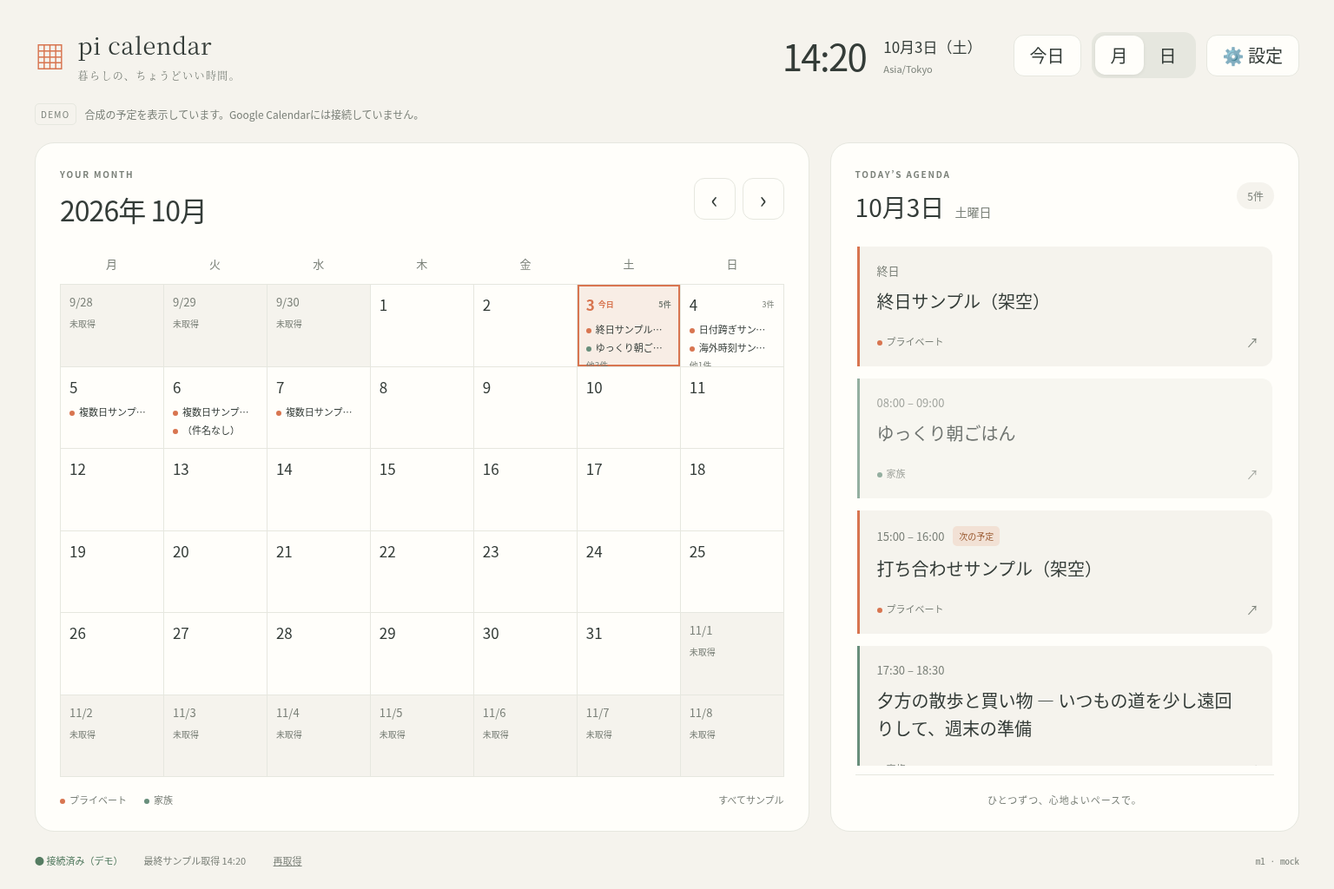
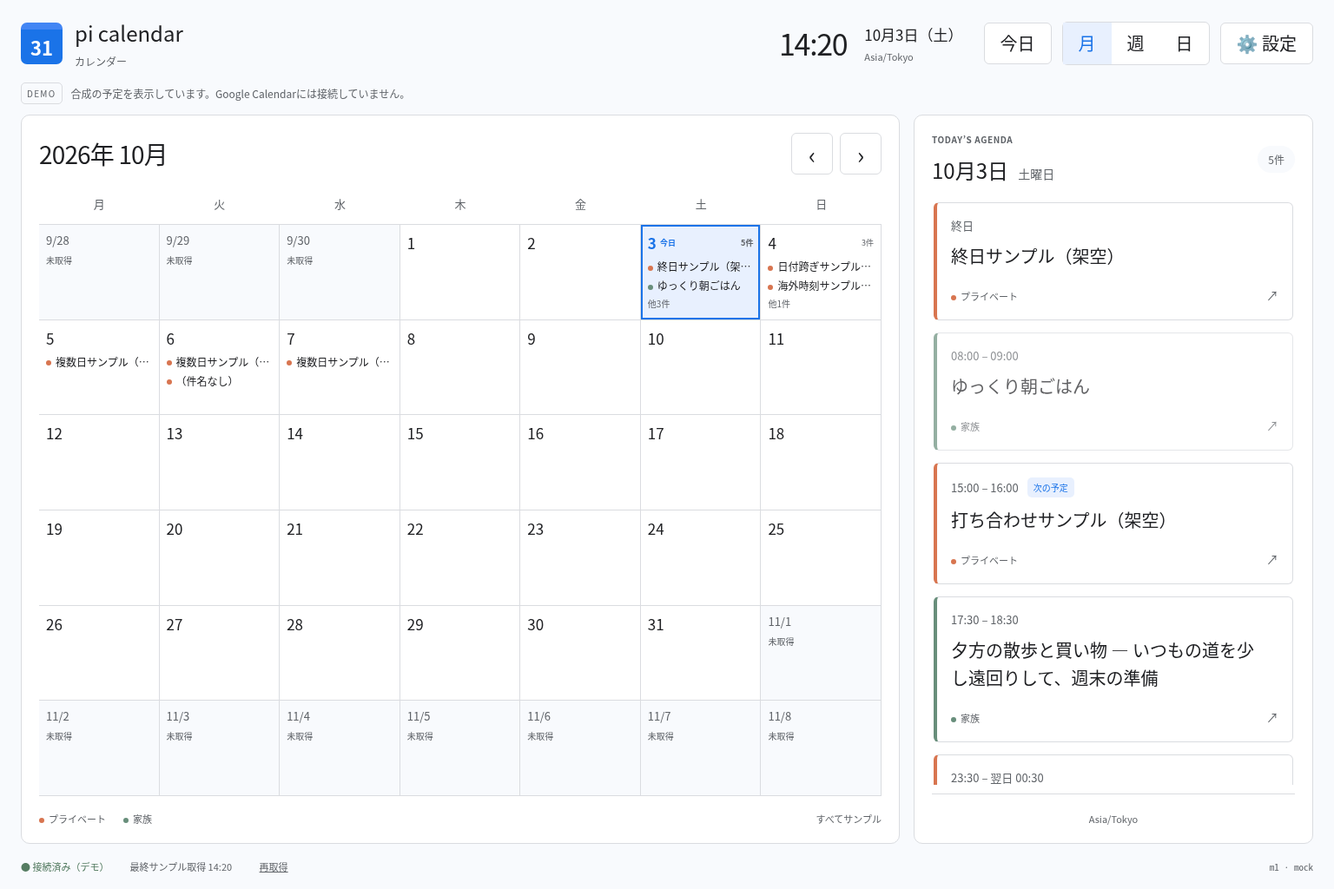
feat: add Google Calendar style week timeline

diff --git a/src/app/globals.css b/src/app/globals.css
@@ -1,3 +1,85 @@
 *{box-sizing:border-box}html,body{margin:0;height:100%;font-family:"Noto Sans JP","Hiragino Kaku Gothic ProN",Meiryo,sans-serif}button,select{font:inherit}button{cursor:pointer;min-height:48px;min-width:48px;touch-action:manipulation}button:focus-visible,select:focus-visible{outline:3px solid #d87550;outline-offset:3px}button{color:inherit}body{background:#f5f3ed;color:#343c38}.calendar-app{--bg:#f5f3ed;--panel:#fffefa;--ink:#343c38;--muted:#7b8179;--line:#e6e7df;--accent:#d87550;--soft:#f8ede5;min-height:100dvh;height:100dvh;background:var(--bg);color:var(--ink);padding:32px 40px 0;display:flex;flex-direction:column;font-size:20px}.calendar-app.dark{--bg:#212824;--panel:#2b342e;--ink:#f2f1e8;--muted:#b8beb4;--line:#465047;--soft:#49392e}.calendar-app.large{font-size:24px}.topbar{display:flex;align-items:center;gap:36px;padding-bottom:24px}.brand{display:flex;align-items:center;gap:14px;font-family:Georgia,serif;font-size:27px;letter-spacing:.02em}.brand-symbol{font-size:35px;color:var(--accent)}.brand small{font-family:inherit;display:block;font-size:12px;color:var(--muted);margin-top:7px;letter-spacing:.12em}.clock{display:flex;align-items:center;gap:20px;margin-left:auto}.clock strong{font-size:42px;font-weight:500;font-variant-numeric:tabular-nums;letter-spacing:-.04em}.clock span{font-size:17px}.clock small{display:block;font-size:11px;color:var(--muted);margin-top:5px}.topbar nav{display:flex;align-items:center;gap:12px}.topbar button,.month-actions button,.day-navigation button,.dialog-heading button,.empty-state button{background:var(--panel);border:1px solid var(--line);border-radius:12px;padding:8px 18px}.segmented{display:flex;background:var(--line);padding:4px;border-radius:14px}.segmented button{border:0;background:transparent;min-height:44px}.segmented button[aria-pressed=true]{background:var(--panel);box-shadow:0 1px 4px #0001}.demo-note{font-size:12px;color:var(--muted);margin-bottom:20px;display:flex;align-items:center;gap:10px}.demo-badge{font-size:10px;letter-spacing:.13em;border:1px solid var(--line);border-radius:5px;padding:4px 6px}.workspace{display:grid;grid-template-columns:minmax(0,1.65fr) minmax(310px,1fr);gap:24px;min-height:0;flex:1}.month-panel,.agenda-panel{background:var(--panel);border:1px solid var(--line);border-radius:22px;padding:28px;min-height:0;display:flex;flex-direction:column}.section-heading{display:flex;align-items:center;justify-content:space-between;gap:14px;margin-bottom:24px}.eyebrow{font-size:10px;letter-spacing:.18em;font-weight:600;color:var(--muted);margin:0 0 10px}h1,h2,h3,p{margin-top:0}h1{font-size:32px;font-weight:500;letter-spacing:-.03em;margin:0}h2{font-size:28px;font-weight:500;margin:0}h2 span{font-size:14px;color:var(--muted);margin-left:6px}.month-actions{display:flex;gap:8px}.month-actions button{padding:0;font-size:27px}.weekdays{display:grid;grid-template-columns:repeat(7,1fr);text-align:center;font-size:13px;color:var(--muted);padding:6px 0 14px}.month-grid{display:grid;grid-template-columns:repeat(7,minmax(0,1fr));grid-template-rows:repeat(6,minmax(48px,1fr));flex:1;min-height:0;border-top:1px solid var(--line);border-left:1px solid var(--line)}.day-cell{background:transparent;border:0;border-bottom:1px solid var(--line);border-right:1px solid var(--line);text-align:left;padding:10px;min-width:0;overflow:hidden;display:flex;flex-direction:column;gap:8px;position:relative}.day-cell.selected{background:var(--soft);box-shadow:inset 0 0 0 2px var(--accent)}.day-number{display:flex;align-items:center;gap:4px;font-size:17px}.today .day-number{color:var(--accent);font-weight:700}.day-number small{font-size:9px}.outside{color:var(--muted);background:var(--bg)}.outside .day-number{font-size:13px}.unfetched{font-size:10px;color:var(--muted)}.cell-events{display:flex;flex-direction:column;gap:5px;min-width:0;font-size:11px}.cell-event{white-space:nowrap;overflow:hidden;text-overflow:ellipsis}.cell-event i,.calendar-legend i,.event-calendar i{display:inline-block;width:6px;height:6px;border-radius:50%;margin-right:5px;vertical-align:middle}.cell-events small{color:var(--muted);font-size:10px}.calendar-legend{display:flex;gap:20px;padding-top:18px;font-size:11px;color:var(--muted)}.calendar-legend span:last-child{margin-left:auto}.count{background:var(--bg);border-radius:20px;padding:7px 12px;font-size:12px;color:var(--muted)}.agenda-list{overflow-y:auto;min-height:0;flex:1;padding:2px}.event-card{display:block;width:100%;text-align:left;background:var(--bg);border:0;border-left:3px solid var(--accent);border-radius:0 12px 12px 0;padding:18px 20px;margin-bottom:14px;position:relative}.event-card.ended{opacity:.7}.event-meta{display:flex;align-items:center;gap:10px;font-size:13px;color:var(--muted);margin-bottom:10px;flex-wrap:wrap}.event-meta em{font-size:10px;white-space:nowrap;font-style:normal;background:#dcebdd;color:#365f3b;border-radius:5px;padding:4px 7px}.event-meta .next-tag{background:#f2e1d5;color:#99582f}.event-card h3{font-size:1em;line-height:1.6;font-weight:500;margin:0 12px 12px 0;overflow-wrap:anywhere}.event-calendar{font-size:11px;color:var(--muted)}.event-arrow{position:absolute;bottom:18px;right:16px;color:var(--muted);font-size:14px}.agenda-footnote{color:var(--muted);font-size:11px;text-align:center;border-top:1px solid var(--line);padding-top:20px;margin-top:10px;letter-spacing:.09em}.statusbar{display:flex;align-items:center;gap:24px;min-height:66px;font-size:11px;color:var(--muted)}.status-good{color:#557c62}.status-warning{color:var(--accent)}.version{margin-left:auto;font-family:monospace}.reconnect{background:transparent;border:0;padding:4px;font-size:11px;text-decoration:underline}.empty-state{text-align:center;padding:50px 10px;color:var(--muted)}.empty-state>span{display:block;font-size:50px;color:var(--accent);margin-bottom:22px}.empty-state h3{font-size:20px;font-weight:400;color:var(--ink)}.empty-state p{font-size:14px;line-height:1.8}.day-view{display:flex}.day-view .agenda-panel{width:100%;max-width:1000px;margin:0 auto}.day-navigation{display:flex;justify-content:space-between;gap:12px;margin-bottom:20px}dialog{background:var(--panel);color:var(--ink);border:1px solid var(--line);border-radius:22px;padding:28px;max-width:540px;width:calc(100% - 32px);max-height:90dvh;overflow:auto;box-shadow:0 20px 80px #0003}dialog::backdrop{background:#1d302966;backdrop-filter:blur(4px)}.dialog-heading{display:flex;align-items:center;justify-content:space-between;gap:16px;margin-bottom:24px}.dialog-heading button{padding:0}dialog label{display:flex;justify-content:space-between;align-items:center;gap:18px;font-size:16px;margin:18px 0}dialog select{background:var(--bg);color:var(--ink);border:1px solid var(--line);border-radius:8px;padding:10px;min-height:48px;max-width:60%;font-size:15px}.dialog-note{font-size:12px;color:var(--muted);line-height:1.8;margin-top:28px}.description{white-space:pre-wrap;overflow-wrap:anywhere;font-size:17px;line-height:1.9;border-top:1px solid var(--line);padding-top:20px;margin-top:24px}.setup-error{max-width:700px;margin:10vh auto;padding:30px}.large .cell-events{font-size:13px}.large .day-number{font-size:20px}.large .event-meta{font-size:16px}.large .event-calendar{font-size:13px}@media(min-width:1600px){.calendar-app{padding:48px 60px 0}.workspace{gap:32px}.month-panel,.agenda-panel{padding:36px}.day-cell{padding:16px}.cell-events{font-size:14px;gap:8px}.day-number{font-size:22px}.event-card{padding:24px;margin-bottom:18px}.event-meta{font-size:17px}.event-calendar{font-size:14px}.calendar-legend{font-size:14px}.brand{font-size:32px}.clock strong{font-size:48px}}@media(max-width:1100px){.calendar-app{padding:20px 24px 0;font-size:18px}.topbar{gap:20px;padding-bottom:14px}.brand{font-size:23px}.brand small{font-size:10px}.clock{gap:10px}.clock strong{font-size:36px}.clock span{font-size:14px}.topbar nav{gap:8px}.topbar button{padding:8px 12px}.settings-label{display:none}.workspace{gap:16px;grid-template-columns:minmax(0,1.6fr) minmax(300px,1fr)}.month-panel,.agenda-panel{padding:20px}.section-heading{margin-bottom:14px}h1{font-size:26px}h2{font-size:23px}.day-cell{padding:7px;gap:4px}.cell-events{font-size:10px}.event-card{padding:14px;margin-bottom:10px}.demo-note{margin-bottom:12px}.calendar-legend{gap:10px;font-size:10px}.statusbar{gap:12px;min-height:52px;font-size:10px}}@media(max-width:900px){.calendar-app{height:auto;min-height:100dvh;padding:18px 16px 0}.topbar{flex-wrap:wrap}.clock{margin-left:auto}.topbar nav{width:100%;justify-content:flex-end}.workspace{display:flex;flex-direction:column}.month-panel{height:600px;flex:none}.agenda-panel{min-height:420px;max-height:650px}.statusbar{flex-wrap:wrap;padding:14px 0;gap:10px}.demo-note{line-height:1.6}.version{margin-left:0}.calendar-legend span:last-child{display:none}}@media(prefers-reduced-motion:reduce){*{scroll-behavior:auto}}
 
 .cell-total{margin-left:auto;white-space:nowrap;color:var(--muted)}
+
+/* Calendar workspace: neutral surfaces, blue selection and compact grid lines. */
+body{background:#f8fafd;color:#202124}
+.calendar-app{--bg:#f8fafd;--panel:#fff;--ink:#202124;--muted:#5f6368;--line:#dadce0;--accent:#1a73e8;--soft:#e8f0fe;padding:20px 24px 0;font-size:20px}
+.calendar-app.dark{--bg:#17191c;--panel:#202124;--ink:#e8eaed;--muted:#bdc1c6;--line:#45474b;--accent:#8ab4f8;--soft:#28364f}
+.topbar{gap:24px;padding-bottom:16px}
+.brand{font-family:inherit;letter-spacing:0;font-size:24px}
+.brand-symbol{background:#1a73e8;color:white;font-size:22px;font-weight:700;border-radius:7px;border-top:8px solid #4285f4;display:grid;place-items:center;width:48px;height:48px}
+.brand small{letter-spacing:0;font-family:inherit}
+.clock strong{font-size:34px}
+.topbar button,.month-actions button,.day-navigation button{border-radius:6px}
+.segmented{border:1px solid var(--line);background:var(--panel);border-radius:6px;padding:0}
+.segmented button{min-height:48px;border-radius:0}
+.segmented button[aria-pressed=true]{background:var(--soft);color:var(--accent);box-shadow:none}
+.demo-note{margin-bottom:12px}
+.workspace{gap:16px;grid-template-columns:minmax(0,2.2fr) minmax(300px,1fr)}
+.month-panel,.agenda-panel{border-radius:10px;padding:20px}
+.section-heading{margin-bottom:18px}
+.eyebrow{letter-spacing:.06em}
+.month-panel .eyebrow{display:none}
+h1{font-size:28px}
+h2{font-size:24px}
+.month-grid{border-left:0}
+.day-cell{padding:8px;gap:6px}
+.day-cell.selected{box-shadow:inset 0 0 0 2px var(--accent)}
+.today .day-number{color:var(--accent)}
+.cell-events{font-size:12px}
+.event-card{background:var(--panel);border:1px solid var(--line);border-left:4px solid var(--accent);border-radius:6px;padding:16px}
+.event-meta .next-tag{background:var(--soft);color:var(--accent)}
+.agenda-footnote{letter-spacing:0}
+.statusbar{min-height:52px}
+.week-view{display:flex}
+.week-panel{width:100%;min-width:0;min-height:0;background:var(--panel);border:1px solid var(--line);border-radius:10px;display:flex;flex-direction:column;overflow:hidden}
+.week-panel>.section-heading{padding:16px 20px;margin:0}
+.week-zone{font-size:12px;color:var(--muted);margin:6px 0 0}
+.week-scroll{overflow:auto;min-height:0;flex:1;touch-action:pan-x pan-y;overscroll-behavior:contain}
+.week-canvas{min-width:850px}
+.week-header,.week-time-grid{display:grid;grid-template-columns:64px repeat(7,minmax(0,1fr))}
+.week-header{position:sticky;top:0;z-index:3;background:var(--panel);border-bottom:1px solid var(--line);align-items:stretch}
+.zone-label{align-self:end;padding:12px 4px;color:var(--muted);font-size:12px}
+.week-day-header{border-left:1px solid var(--line);min-width:0;padding:4px}
+.week-day-header>button{background:transparent;border:0;border-radius:6px;width:100%;padding:4px;color:var(--muted);min-height:64px}
+.week-day-header>button span{display:block;font-size:12px}
+.week-day-header>button strong{display:block;font-size:22px;font-weight:500}
+.week-day-header>button[aria-pressed=true]{background:var(--soft)}
+.week-day-header>button.is-today{color:var(--accent)}
+.all-day-events{display:flex;flex-direction:column;gap:4px;max-height:180px;overflow:auto}
+.all-day-event{border:0;border-radius:4px;min-width:0;width:100%;color:white;text-align:left;font-size:13px;padding:6px;overflow-wrap:anywhere;min-height:48px}
+.week-time-grid{height:1728px}
+.time-labels{position:relative;font-size:11px;color:var(--muted);background:var(--panel)}
+.time-labels span{position:absolute;right:6px}
+.time-column{position:relative;border-left:1px solid var(--line);background:repeating-linear-gradient(to bottom,transparent 0,transparent 71px,var(--line) 71px,var(--line) 72px)}
+.week-event{position:absolute;z-index:1;border:1px solid var(--panel);border-radius:5px;color:white;text-align:left;padding:5px;overflow:hidden;min-width:0;min-height:48px;font-size:13px;line-height:1.4}
+.week-event strong{display:block;font-weight:500;overflow-wrap:anywhere}
+.week-event span{font-size:11px}
+.now-line{position:absolute;left:0;right:0;border-top:2px solid #ea4335;z-index:2;pointer-events:none}
+.now-line:before{content:'';position:absolute;left:-5px;top:-5px;width:8px;height:8px;border-radius:50%;background:#ea4335}
+.large .week-event,.large .all-day-event{font-size:16px}
+.large .week-event span{font-size:13px}
+@media(min-width:1600px){.calendar-app{padding:24px 32px 0}
+.month-panel,.agenda-panel{padding:24px}
+.cell-events{font-size:15px}
+.week-event,.all-day-event{font-size:16px}
+.week-event span{font-size:13px}
+}
+@media(max-width:1100px){.topbar{gap:14px}
+.brand{font-size:20px}
+.clock span{font-size:12px}
+.clock strong{font-size:28px}
+.topbar nav{gap:6px}
+.topbar button{padding:6px 10px}
+.week-panel h1{font-size:22px}
+}
+@media(max-width:900px){.calendar-app{padding:14px 12px 0}
+.week-panel{height:700px;flex:none}
+.week-panel>.section-heading{padding:12px}
+.week-panel h1{font-size:18px}
+.week-canvas{min-width:850px}
+.week-scroll{flex:1}
+.month-panel{height:600px}
+.brand small{display:none}
+}

diff --git a/src/components/Calendar.tsx b/src/components/Calendar.tsx
@@ -1,8 +1,9 @@
 "use client";
 import { useEffect, useRef, useState } from 'react';
 import { DateTime } from 'luxon';
-import { dateInZone, eventPhase, eventsForDay, monthDays, type CalendarEvent, type Snapshot, type SyncState } from '../domain/calendar';
-type Preferences = { theme:'light'|'dark'; scale:'normal'|'large'; weekStart:0|1; startupView:'month'|'day' };
+import WeekCalendar from './WeekCalendar';
+import { dateInZone, eventPhase, eventsForDay, monthDays, weekDays, type CalendarEvent, type Snapshot, type SyncState } from '../domain/calendar';
+type Preferences = { theme:'light'|'dark'; scale:'normal'|'large'; weekStart:0|1; startupView:'month'|'week'|'day' };
 const defaults: Preferences = {theme:'light',scale:'normal',weekStart:1,startupView:'month'};
 const states: Record<SyncState,string> = {fresh:'接続済み',syncing:'同期中',stale:'取得情報が古くなっています',offline:'オフライン · 保存済みのサンプルを表示',auth_required:'再認証が必要 · 保存済みのサンプルを表示',partial_error:'一部のカレンダーを取得できません',not_configured:'未取得 · データを準備してください'};
 const fmt = (day:string, pattern:string) => DateTime.fromISO(day).setLocale('ja').toFormat(pattern);
@@ -12,8 +13,10 @@ export default function Calendar({initialNow,fixedClock,timezone}:{initialNow:st
  const today = dateInZone(clock,timezone);
  const [selected,setSelected] = useState(today);
  const [month,setMonth] = useState(today.slice(0,7));
- const [view,setView] = useState<'month'|'day'>('month');
+ const [view,setView] = useState<'month'|'week'|'day'>('month');
  const [prefs,setPrefs] = useState<Preferences>(defaults);
+ const week=weekDays(selected,prefs.weekStart);
+ const requestMonths=view==='week' ? [...new Set(week.map(d=>d.slice(0,7)))].join(',') : month;
  const [snapshot,setSnapshot] = useState<Snapshot|null>(null);
  const [snapshotMonth,setSnapshotMonth] = useState('');
  const [networkError,setNetworkError] = useState(false);
@@ -27,7 +30,7 @@ export default function Calendar({initialNow,fixedClock,timezone}:{initialNow:st
  const detailDialog = useRef<HTMLDialogElement>(null);
  useEffect(()=>{
   const frame=requestAnimationFrame(()=>{try { const p=JSON.parse(localStorage.getItem('pi-calendar-preferences') ?? 'null');
-   if(p && ['light','dark'].includes(p.theme) && ['normal','large'].includes(p.scale) && [0,1].includes(p.weekStart) && ['month','day'].includes(p.startupView)) {
+   if(p && ['light','dark'].includes(p.theme) && ['normal','large'].includes(p.scale) && [0,1].includes(p.weekStart) && ['month','week','day'].includes(p.startupView)) {
     setPrefs(p);setView(p.startupView);
    }
   } catch { /* Storage is optional; safe defaults remain usable. */ }});
@@ -43,17 +46,23 @@ export default function Calendar({initialNow,fixedClock,timezone}:{initialNow:st
  },[today,followingToday]);
  useEffect(()=>{
   const abort=new AbortController();
-  fetch(`/api/events?month=${month}`,{cache:'no-store',signal:abort.signal}).then(async res=>{
+  Promise.all(requestMonths.split(',').map(async m=>{
+   const res=await fetch(`/api/events?month=${m}`,{cache:'no-store',signal:abort.signal});
    if(!res.ok) throw new Error('Unavailable');return await res.json() as Snapshot;
-  }).then(data=>{setSnapshot(data);setSnapshotMonth(month);setNetworkError(false);}).catch(()=>{if(!abort.signal.aborted)setNetworkError(true);});
+  })).then(data=>{
+   if(abort.signal.aborted)return;
+   const unique=new Map(data.flatMap(s=>s.events).map(e=>[`${e.calendarId}:${e.id}`,e]));
+   setSnapshot({...data[0],complete:data.every(s=>s.complete),events:[...unique.values()]});
+   setSnapshotMonth(requestMonths);setNetworkError(false);
+  }).catch(()=>{if(!abort.signal.aborted)setNetworkError(true);});
   return ()=>abort.abort();
- },[month,retry]);
+ },[requestMonths,retry]);
  useEffect(()=>{ const d=settingsDialog.current;if(settings && !d?.open)d?.showModal();else if(!settings && d?.open)d.close(); },[settings]);
  useEffect(()=>{ const d=detailDialog.current;if(detail && !d?.open)d?.showModal();else if(!detail && d?.open)d.close(); },[detail]);
  const state: SyncState = networkError ? 'offline' : scenario;
- // Never show a previous month's cached response as the new month's data.
- const complete=Boolean(snapshot?.complete) && snapshotMonth===month && scenario!=='not_configured';
- const events=scenario==='not_configured' || snapshotMonth!==month ? [] : snapshot?.events ?? [];
+ // Only retain samples for the same requested month range.
+ const complete=Boolean(snapshot?.complete) && snapshotMonth===requestMonths && scenario!=='not_configured';
+ const events=scenario==='not_configured' || snapshotMonth!==requestMonths ? [] : snapshot?.events ?? [];
  const agenda=eventsForDay(events,selected,timezone);
  const upcoming=agenda.find(e=>eventPhase(e,clock)==='upcoming');
  const days=monthDays(month,prefs.weekStart);
@@ -69,12 +78,12 @@ export default function Calendar({initialNow,fixedClock,timezone}:{initialNow:st
  }
  return <main className={`calendar-app ${prefs.theme} ${prefs.scale}`}>
   <header className="topbar">
-   <div className="brand"><span className="brand-symbol" aria-hidden="true">▦</span><span>pi calendar<small>暮らしの、ちょうどいい時間。</small></span></div>
+   <div className="brand"><span className="brand-symbol" aria-hidden="true">31</span><span>pi calendar<small>カレンダー</small></span></div>
    <div className="clock"><strong>{DateTime.fromISO(now).setZone(timezone).toFormat('HH:mm')}</strong><span>{fmt(today,'M月d日（ccc）')} <small>{timezone}</small></span></div>
-   <nav aria-label="表示切替"><button onClick={goToday}>今日</button><div className="segmented"><button aria-pressed={view==='month'} onClick={()=>setView('month')}>月</button><button aria-pressed={view==='day'} onClick={()=>setView('day')}>日</button></div><button aria-label="設定" onClick={()=>setSettings(true)}>⚙ <span className="settings-label">設定</span></button></nav>
+   <nav aria-label="表示切替"><button onClick={goToday}>今日</button><div className="segmented"><button aria-pressed={view==='month'} onClick={()=>setView('month')}>月</button><button aria-pressed={view==='week'} onClick={()=>setView('week')}>週</button><button aria-pressed={view==='day'} onClick={()=>setView('day')}>日</button></div><button aria-label="設定" onClick={()=>setSettings(true)}>⚙ <span className="settings-label">設定</span></button></nav>
   </header>
   <div className="demo-note"><span className="demo-badge">DEMO</span> 合成の予定を表示しています。Google Calendarには接続していません。</div>
-  <div className={`workspace ${view==='day'?'day-view':''}`}>
+  <div className={`workspace ${view==='day'?'day-view':view==='week'?'week-view':''}`}>
    {view==='month' && <section className="month-panel" aria-label="月間カレンダー">
     <div className="section-heading"><div><p className="eyebrow">YOUR MONTH</p><h1>{fmt(`${month}-01`,'yyyy年 M月')}</h1></div><div className="month-actions"><button aria-label="前月" onClick={()=>move(-1)}>‹</button><button aria-label="翌月" onClick={()=>move(1)}>›</button></div></div>
     <div className="weekdays">{weekdays.map(d=><span key={d}>{d}</span>)}</div>
@@ -88,7 +97,8 @@ export default function Calendar({initialNow,fixedClock,timezone}:{initialNow:st
     })}</div>
     <div className="calendar-legend"><span><i style={{background:'#d87550'}}/>プライベート</span><span><i style={{background:'#688e7b'}}/>家族</span><span>すべてサンプル</span></div>
    </section>}
-   <section className="agenda-panel" aria-label="日別予定">
+   {view==='week'&&<WeekCalendar days={week} today={today} selected={selected} events={events} complete={complete} timezone={timezone} now={now} onChoose={choose} onDetail={setDetail} onMove={delta=>choose(DateTime.fromISO(selected).plus({days:delta*7}).toISODate()!)}/>}
+   {view!=='week'&&<section className="agenda-panel" aria-label="日別予定">
     <div className="section-heading"><div><p className="eyebrow">{selected===today?'TODAY’S AGENDA':'DAY AGENDA'}</p><h2>{fmt(selected,'M月d日')} <span>{fmt(selected,'ccc')}曜日</span></h2></div><span className="count">{complete?`${agenda.length}件`:'未取得'}</span></div>
     {view==='day'&&<div className="day-navigation"><button aria-label="前日" onClick={()=>choose(DateTime.fromISO(selected).minus({days:1}).toISODate()!)}>‹ 前日</button><button aria-label="翌日" onClick={()=>choose(DateTime.fromISO(selected).plus({days:1}).toISODate()!)}>翌日 ›</button></div>}
     <div className="agenda-list">
@@ -98,8 +108,8 @@ export default function Calendar({initialNow,fixedClock,timezone}:{initialNow:st
       <div className="event-meta"><span>{timeLabel(e)}</span>{phase==='ongoing'&&<em>進行中</em>}{e===upcoming&&<em className="next-tag">次の予定</em>}</div><h3>{e.title}</h3><span className="event-calendar"><i style={{background:e.color}}/>{e.calendarName}</span><span className="event-arrow" aria-hidden="true">↗</span>
      </button>;})}
     </div>
-    <div className="agenda-footnote">ひとつずつ、心地よいペースで。</div>
-   </section>
+    <div className="agenda-footnote">{timezone}</div>
+   </section>}
   </div>
   <footer className="statusbar" role="status"><span className={state==='fresh'?'status-good':'status-warning'}>● <span>{states[state]}（デモ）</span></span><span>最終サンプル取得 {snapshot?.fetchedAt?DateTime.fromISO(snapshot.fetchedAt).setZone(timezone).toFormat('HH:mm'):'—'}</span><button className="reconnect" onClick={()=>setRetry(v=>v+1)}>再取得</button><span className="version">m1 · mock</span></footer>
   <dialog ref={settingsDialog} onCancel={()=>setSettings(false)} onClose={()=>setSettings(false)} aria-labelledby="settings-title">
@@ -107,13 +117,13 @@ export default function Calendar({initialNow,fixedClock,timezone}:{initialNow:st
    <label>テーマ<select value={prefs.theme} onChange={e=>save({...prefs,theme:e.target.value as Preferences['theme']})}><option value="light">明るい</option><option value="dark">暗い</option></select></label>
    <label>文字サイズ<select value={prefs.scale} onChange={e=>save({...prefs,scale:e.target.value as Preferences['scale']})}><option value="normal">標準</option><option value="large">大きい</option></select></label>
    <label>週の始まり<select value={prefs.weekStart} onChange={e=>save({...prefs,weekStart:Number(e.target.value) as 0|1})}><option value={1}>月曜日</option><option value={0}>日曜日</option></select></label>
-   <label>起動時の表示<select value={prefs.startupView} onChange={e=>save({...prefs,startupView:e.target.value as Preferences['startupView']})}><option value="month">月</option><option value="day">日</option></select></label>
+   <label>起動時の表示<select value={prefs.startupView} onChange={e=>save({...prefs,startupView:e.target.value as Preferences['startupView']})}><option value="month">月</option><option value="week">週</option><option value="day">日</option></select></label>
    <label>デモの取得状態<select value={scenario} onChange={e=>setScenario(e.target.value as SyncState)}>{Object.entries(states).map(([s,label])=><option key={s} value={s}>{label}</option>)}</select></label>
    <p className="dialog-note">表示設定はこのブラウザに保存します。取得状態の切替はデモ専用です。Google認証やOS設定は行いません。</p>
   </dialog>
   <dialog ref={detailDialog} onCancel={()=>setDetail(null)} onClose={()=>setDetail(null)} aria-labelledby="detail-title">
    <div className="dialog-heading"><span className="eyebrow">EVENT DETAILS · DEMO</span><button aria-label="詳細を閉じる" onClick={()=>setDetail(null)}>✕</button></div>
-   {detail&&<><h2 id="detail-title">{detail.title}</h2><p>{timeLabel(detail)}</p><p>{detail.calendarName}</p><p className="description">{detail.description ?? 'これは合成データのサンプル予定です。'}</p></>}
+   {detail&&<><h2 id="detail-title">{detail.title}</h2><p>{detail.kind==='allDay' ? `${fmt(detail.start,'yyyy/M/d')} – ${fmt(DateTime.fromISO(detail.end).minus({days:1}).toISODate()!,'yyyy/M/d')} · 終日` : `${DateTime.fromISO(detail.start).setZone(timezone).toFormat('yyyy/M/d HH:mm')} – ${DateTime.fromISO(detail.end).setZone(timezone).toFormat('yyyy/M/d HH:mm')}`}</p><p>{detail.calendarName}</p><p className="description">{detail.description ?? 'これは合成データのサンプル予定です。'}</p></>}
   </dialog>
  </main>;
 }

diff --git a/tests/e2e/calendar.spec.ts b/tests/e2e/calendar.spec.ts
@@ -23,6 +23,7 @@ test('month, day, navigation, details and empty day',async({page},info)=>{
  await expect(page.locator('.event-card')).toHaveCount(5);
  await page.getByRole('button',{name:'日',exact:true}).click();
  await expect(page.locator('.month-grid')).toHaveCount(0);
+ await page.screenshot({path:`test-results/day-${info.project.name}.png`,fullPage:true});
  await page.getByRole('button',{name:'翌日',exact:true}).click();
  await expect(page.getByRole('heading',{name:'10月4日 日曜日'})).toBeVisible();
  expect(errors).toEqual([]);
@@ -51,4 +52,58 @@ test('fixed injected clock preserves a manually selected day',async({page})=>{
  await page.getByRole('button',{name:/^2026-10-02 /}).click();await page.clock.fastForward(24*60*60*1000);
  await expect(page.getByRole('heading',{name:'10月2日 金曜日'})).toBeVisible();
  await page.getByRole('button',{name:'今日',exact:true}).click();await expect(page.getByRole('heading',{name:'10月3日 土曜日'})).toBeVisible();
+});
+
+test('week timeline crosses months, separates all-day and midnight, and supports touch',async({page},info)=>{
+ const errors:string[]=[];page.on('pageerror',e=>errors.push(e.message));
+ await page.goto('/');await expect(page.locator('.event-card')).toHaveCount(5);
+ const requests:string[]=[];page.on('request',r=>{if(r.url().includes('/api/events?'))requests.push(r.url());});
+ await page.getByRole('button',{name:'週',exact:true}).click();
+ await expect(page.getByRole('heading',{name:'2026年 9月28日 – 10月4日'})).toBeVisible();
+ await expect(page.locator('.all-day-event')).toHaveCount(1);
+ await expect(page.locator('.week-event').filter({hasText:'日付跨ぎ'})).toHaveCount(2);
+ expect(requests.some(r=>r.includes('month=2026-09'))).toBe(true);
+ expect(requests.some(r=>r.includes('month=2026-10'))).toBe(true);
+ await expect(page.locator('.week-header')).toBeVisible();
+ await page.screenshot({path:`test-results/week-${info.project.name}.png`,fullPage:true});
+ await page.locator('.week-scroll').evaluate(el=>el.scrollTop=0);
+ await page.screenshot({path:`test-results/week-midnight-${info.project.name}.png`,fullPage:true});
+ await page.getByRole('button',{name:'翌週',exact:true}).click();
+ await expect(page.getByRole('heading',{name:'2026年 10月5日 – 10月11日'})).toBeVisible();
+ await expect(page.locator('.all-day-event').filter({hasText:'複数日'})).toHaveCount(3);
+ await page.screenshot({path:`test-results/week-multiday-${info.project.name}.png`,fullPage:true});
+ await page.locator('.all-day-event').first().click();await expect(page.getByRole('dialog')).toBeVisible();
+ await page.getByRole('button',{name:'詳細を閉じる'}).click();
+ await page.getByRole('button',{name:'設定',exact:true}).click();
+ await page.getByLabel('起動時の表示').selectOption('week');await page.getByLabel('週の始まり').selectOption('0');
+ await page.getByLabel('文字サイズ').selectOption('large');await page.getByRole('button',{name:'設定を閉じる'}).click();
+ await expect(page.getByRole('heading',{name:'2026年 10月4日 – 10月10日'})).toBeVisible();
+ await page.reload();await expect(page.getByRole('button',{name:'週',exact:true})).toHaveAttribute('aria-pressed','true');
+ const client=await page.context().newCDPSession(page);await client.send('Emulation.setTouchEmulationEnabled',{enabled:true});
+ await page.getByRole('button',{name:'翌週',exact:true}).tap();
+ await expect(page.getByRole('heading',{name:'2026年 10月4日 – 10月10日'})).toBeVisible();
+ await page.locator('.all-day-event').first().tap();await expect(page.getByRole('dialog')).toBeVisible();
+ await page.getByRole('button',{name:'詳細を閉じる'}).tap();
+ const scroll=page.locator('.week-scroll');await scroll.evaluate(el=>el.scrollTop=0);
+ const box=await scroll.boundingBox();if(!box)throw new Error('Missing scroll area');
+ await client.send('Input.dispatchTouchEvent',{type:'touchStart',touchPoints:[{x:box.x+100,y:box.y+box.height-50}]});
+ await client.send('Input.dispatchTouchEvent',{type:'touchMove',touchPoints:[{x:box.x+100,y:box.y+100}]});
+ await client.send('Input.dispatchTouchEvent',{type:'touchEnd',touchPoints:[]});
+ await expect.poll(()=>scroll.evaluate(el=>el.scrollTop)).toBeGreaterThan(0);
+ expect(errors).toEqual([]);
+ const size=await page.evaluate(()=>({width:innerWidth,scroll:document.documentElement.scrollWidth}));expect(size.scroll).toBeLessThanOrEqual(size.width);
+});
+
+test('cross-month copies are deduplicated and failed new weeks stay unacquired',async({page})=>{
+ const event={id:'boundary',calendarId:'test',calendarName:'合成',title:'跨月の合成予定',color:'#1a73e8',kind:'allDay',start:'2026-09-30',end:'2026-10-02'};
+ await page.route('**/api/events?*',route=>route.fulfill({json:{events:[event],complete:true,fetchedAt:'2026-10-03T05:20:00Z',state:'fresh',synthetic:true}}));
+ await page.goto('/');await page.getByRole('button',{name:'週',exact:true}).click();
+ await expect(page.locator('.all-day-event')).toHaveCount(2);
+ await expect(page.locator('.all-day-event').first()).toContainText('→');
+ await expect(page.locator('.all-day-event').last()).toContainText('←');
+ await page.unroute('**/api/events?*');await page.route('**/api/events?*',route=>route.abort());
+ await page.getByRole('button',{name:'再取得',exact:true}).click();
+ await expect(page.getByRole('status')).toContainText('オフライン');await expect(page.locator('.all-day-event')).toHaveCount(2);
+ await page.getByRole('button',{name:'翌週',exact:true}).click();
+ await expect(page.locator('.all-day-event')).toHaveCount(0);await expect(page.locator('.week-header .unfetched')).toHaveCount(7);
 });

diff --git a/src/components/WeekCalendar.tsx b/src/components/WeekCalendar.tsx
@@ -1,0 +1,23 @@
+import {useEffect,useRef} from 'react';
+import {DateTime} from 'luxon';
+import {eventsForDay,timedSegments,type CalendarEvent} from '../domain/calendar';
+const format=(day:string,pattern:string)=>DateTime.fromISO(day).setLocale('ja').toFormat(pattern);
+type Props={days:string[];today:string;selected:string;events:CalendarEvent[];complete:boolean;timezone:string;now:string;onChoose:(day:string)=>void;onDetail:(event:CalendarEvent)=>void;onMove:(delta:number)=>void};
+export default function WeekCalendar({days,today,selected,events,complete,timezone,now,onChoose,onDetail,onMove}:Props){
+ const scroll=useRef<HTMLDivElement>(null);
+ useEffect(()=>{if(scroll.current)scroll.current.scrollTop=7*72;},[]);
+ const current=DateTime.fromISO(now).setZone(timezone);
+ return <section className="week-panel" aria-label="週間カレンダー">
+  <div className="section-heading"><div><h1>{format(days[0],'yyyy年 M月d日')} – {format(days[6],days[0].slice(0,4)===days[6].slice(0,4)?'M月d日':'yyyy年 M月d日')}</h1><p className="week-zone">{timezone} · 終日 / 時刻付き</p></div><div className="month-actions"><button aria-label="前週" onClick={()=>onMove(-1)}>‹</button><button aria-label="翌週" onClick={()=>onMove(1)}>›</button></div></div>
+  <div className="week-scroll" ref={scroll} tabIndex={0} aria-label="週の時間軸。縦横にスクロールできます">
+   <div className="week-canvas">
+    <div className="week-header"><span className="zone-label">終日</span>{days.map(day=><div key={day} className="week-day-header"><button className={day===today?'is-today':''} aria-pressed={day===selected} aria-label={`${day} を選択`} onClick={()=>onChoose(day)}><span>{format(day,'ccc')}</span><strong>{format(day,'M/d')}</strong></button><div className="all-day-events">{!complete?<span className="unfetched">未取得</span>:eventsForDay(events,day,timezone).filter(e=>e.kind==='allDay').map(e=><button className="all-day-event" style={{background:e.color}} key={`${e.calendarId}:${e.id}`} onClick={()=>onDetail(e)}>{e.start<day?'← ':''}{e.title}{e.end>DateTime.fromISO(day).plus({days:1}).toISODate()!?' →':''}</button>)}</div></div>)}</div>
+    <div className="week-time-grid"><div className="time-labels">{Array.from({length:24},(_,h)=><span key={h} style={{top:h*72}}>{String(h).padStart(2,'0')}:00</span>)}</div>{days.map(day=><div key={day} className="time-column" aria-label={`${day} 時刻付き予定`}>
+     {complete&&timedSegments(events,day,timezone).map(s=><button key={`${s.event.calendarId}:${s.event.id}`} className="week-event" style={{top:s.start*1.2,height:Math.max(48,(s.end-s.start)*1.2),left:`${s.lane/s.lanes*100}%`,width:`${100/s.lanes}%`,background:s.event.color}} onClick={()=>onDetail(s.event)} aria-label={`${day} ${s.continuesBefore?'前日から ':''}${s.event.title} ${s.continuesAfter?'翌日へ':''}`}><strong>{s.event.title}</strong><span>{s.continuesBefore?'← ':''}{formatTime(s.start)} – {formatTime(s.end)}{s.continuesAfter?' →':''}</span></button>)}
+     {day===today&&<div className="now-line" aria-label="現在時刻" style={{top:(current.hour*60+current.minute)*1.2}}/>}
+    </div>)}</div>
+   </div>
+  </div>
+ </section>;
+}
+function formatTime(minutes:number){return `${String(Math.floor(minutes/60)).padStart(2,'0')}:${String(minutes%60).padStart(2,'0')}`;}

diff --git a/tests/unit/calendar.test.ts b/tests/unit/calendar.test.ts
@@ -25,3 +25,22 @@ describe('fixture date boundaries',()=>{
  it('uses explicit timezone for clock',()=>expect(dateInZone({now:()=>new Date('2026-10-03T23:59:00Z')},zone)).toBe('2026-10-04'));
  it('classifies current and next events',()=>{expect(eventPhase(events[1],clock)).toBe('upcoming');expect(eventPhase(events[1],{now:()=>new Date('2026-10-03T15:30:00+09:00')})).toBe('ongoing');expect(eventPhase(events[1],{now:()=>new Date('2026-10-03T16:00:00+09:00')})).toBe('ended');});
 });
+
+import {weekDays,timedSegments} from '../../src/domain/calendar';
+it('week crosses month and year with either week start',()=>{
+ expect(weekDays('2026-10-01',1)).toEqual(['2026-09-28','2026-09-29','2026-09-30','2026-10-01','2026-10-02','2026-10-03','2026-10-04']);
+ expect(weekDays('2027-01-01',0)[0]).toBe('2026-12-27');
+});
+it('splits midnight events on both days and preserves exclusive end',()=>{
+ const e=events.find(e=>e.id==='demo-midnight')!;
+ expect(timedSegments([e],'2026-10-03',zone)[0]).toMatchObject({start:1410,end:1440,continuesAfter:true});
+ expect(timedSegments([e],'2026-10-04',zone)[0]).toMatchObject({start:0,end:30,continuesBefore:true});
+ expect(timedSegments([{...e,end:'2026-10-04T00:00:00+09:00'}],'2026-10-04',zone)).toHaveLength(0);
+ expect(timedSegments(events,'2026-10-03',zone).every(s=>s.event.kind==='timed')).toBe(true);
+});
+it('overlap columns include connected groups but touching events share a column',()=>{
+ const e=events.find(e=>e.kind==='timed')!;
+ const make=(id:string,start:string,end:string)=>({...e,id,start:`2026-10-03T${start}:00+09:00`,end:`2026-10-03T${end}:00+09:00`});
+ const s=timedSegments([make('a','09:00','10:00'),make('b','09:30','11:00'),make('c','10:00','10:30'),make('d','11:00','12:00')],'2026-10-03',zone);
+ expect(s.map(e=>[e.lane,e.lanes])).toEqual([[0,2],[1,2],[0,2],[0,1]]);
+});

diff --git a/src/domain/calendar.ts b/src/domain/calendar.ts
@@ -36,3 +36,26 @@ export function eventPhase(event: CalendarEvent, clock: Clock): 'ongoing' | 'upc
  const now = clock.now().getTime();
  return now >= DateTime.fromISO(event.end).toMillis() ? 'ended' : now >= DateTime.fromISO(event.start).toMillis() ? 'ongoing' : 'upcoming';
 }
+export function weekDays(day: string, weekStart: 0 | 1): string[] {
+ const date = DateTime.fromISO(day);
+ const first = date.minus({days:(date.weekday % 7 - weekStart + 7) % 7});
+ return Array.from({length:7}, (_,i)=>first.plus({days:i}).toISODate()!);
+}
+export function timedSegments(events: CalendarEvent[], day: string, zone: string) {
+ const {start,end}=dayBounds(day,zone);
+ const segments=eventsForDay(events,day,zone).filter(e=>e.kind==='timed').map(event=>{
+  const from=DateTime.fromISO(event.start).setZone(zone), to=DateTime.fromISO(event.end).setZone(zone);
+  const clippedStart=from < start ? start : from, clippedEnd=to > end ? end : to;
+  return {event,start:clippedStart.hour*60+clippedStart.minute,end:clippedEnd.equals(end)?1440:clippedEnd.hour*60+clippedEnd.minute,lane:0,lanes:1,continuesBefore:from<start,continuesAfter:to>end};
+ }).sort((a,b)=>a.start-b.start || a.end-b.end);
+ // Allocate columns within each connected overlap group; touching ends are exclusive.
+ let group:typeof segments=[];
+ let groupEnd=-1;
+ const finish=()=>{const count=Math.max(1,...group.map(s=>s.lane+1));group.forEach(s=>s.lanes=count);};
+ for(const segment of segments){
+  if(segment.start>=groupEnd){finish();group=[];groupEnd=-1;}
+  let lane=0;while(group.some(s=>s.lane===lane && s.end>segment.start))lane++;
+  segment.lane=lane;group.push(segment);groupEnd=Math.max(groupEnd,segment.end);
+ }
+ finish();return segments;
+}

diff --git a/playwright.config.ts b/playwright.config.ts
@@ -1,7 +1,7 @@
 import { defineConfig } from '@playwright/test';
 export default defineConfig({
  testDir:'tests/e2e',fullyParallel:false,workers:2,timeout:30000,
- use:{baseURL:'http://127.0.0.1:3310',headless:true,launchOptions:process.env.PLAYWRIGHT_CHROMIUM_EXECUTABLE_PATH?{executablePath:process.env.PLAYWRIGHT_CHROMIUM_EXECUTABLE_PATH}:{}},
+ use:{baseURL:'http://127.0.0.1:3310',headless:true,hasTouch:true,launchOptions:process.env.PLAYWRIGHT_CHROMIUM_EXECUTABLE_PATH?{executablePath:process.env.PLAYWRIGHT_CHROMIUM_EXECUTABLE_PATH}:{}},
  projects:[{name:'1920x1280',use:{viewport:{width:1920,height:1280}}},{name:'1536x1024',use:{viewport:{width:1536,height:1024}}},{name:'1280x853',use:{viewport:{width:1280,height:853}}},{name:'1024x683',use:{viewport:{width:1024,height:683}}}],
  webServer:{command:'npm run dev',url:'http://127.0.0.1:3310/api/health/ready',reuseExistingServer:false,timeout:120000,env:{CALENDAR_PORT:'3310',CALENDAR_MODE:'mock',CALENDAR_MOCK_NOW:'2026-10-03T14:20:00+09:00',CALENDAR_STATE_DIR:'.local/e2e',NEXT_TELEMETRY_DISABLED:'1'}},
 });

diff --git a/docs/02_UI_SPEC.md b/docs/02_UI_SPEC.md
@@ -77,3 +77,9 @@ release ID変更後に同じ新IDを2回確認し、選択日/表示モードを
 白/暖かいグレー＋小数のカレンダーカラー。ダークモードは別トークン。
 外部CDN、オンラインフォント、天気画像に依存しない。日本語フォントはOSまたは配布許諾を確認して同梱。
 アニメーションは短く、prefers-reduced-motionを尊重。色だけに意味を依存させない。
+
+## M1追加：Googleカレンダー風の週表示（2026-10-09）
+
+白いグリッド、青い今日/選択表示と月・週・日の切替を使う。週は選択日と週始まり設定から7日を算出し、月/年を跨ぐ日付範囲を見出しに表示する。必要な月のmock APIをすべて取得し、calendarId/eventIdで重複除去。同じ取得範囲の通信失敗時はサンプルを保持し、新しい範囲を未取得として扱う。
+
+終日は時間軸の上に置き、複数日は各日の欄に継続矢印を表示。時刻予定は0–24時の時間軸で日境界に切り分け、重複する時間帯は列分けする。短い予定のタッチ対象は48px以上のため、見た目の高さは最短40分相当。実時間はラベルと詳細で確認できる。日付/終日見出しはスクロール中も固定し、狭い幅は週領域内で横スクロールする。Google同期とPi OS設定は対象外。

diff --git a/docs/PI_TRIAL.md b/docs/PI_TRIAL.md
@@ -43,7 +43,9 @@ chromium http://127.0.0.1:3100
 
 Chromiumのコマンド名が違う場合は、Piの通常のブラウザから同じローカルURLを開いてください。sandboxやTLS検証を無効にするフラグは不要です。healthの`status:ok, mode:mock`は合成UIの準備だけを示し、Google/SQLite/Workerが動いているという意味ではありません。
 
-- 月/日/今日/前後月、日付タップと見出しの一致。
+- 月/週/日/今日/前後月・週、日付タップと見出しの一致。
+- 月を跨ぐ週の全7日、終日欄、複数日の継続矢印、跨日の両日表示と詳細日時。
+- 週の時間軸を指で上下へスクロールし、固定日付見出し・予定タップ・詳細の閉じる操作を確認。
 - 右側の予定一覧の縦スクロール、予定詳細を開閉。
 - 設定の明暗・文字サイズ・週始まり。文字拡大時も操作できること。
 - デモ状態を未取得/オフライン/再認証に切替。予定ゼロと未取得が区別されること。

diff --git a/README.md b/README.md
@@ -15,7 +15,8 @@ npm run dev
 
 開発サーバーは127.0.0.1:3100のみで待受けます。開発用stateは`.local/dev`で、本番stateは使いません。Google認証情報は不要です。通常は現在日付に合わせた合成予定を表示し、時刻・表示日はAsia/Tokyoを使います。
 
-- 月の6週グリッド、前月・翌月・今日、日別表示、予定詳細。
+- Googleカレンダー風の月グリッド、時間軸付き週表示、日別一覧、予定詳細。
+- 週表示は0–24時、終日欄、現在時刻線、前週/翌週、月を跨ぐデータ取得。同時刻予定は列分け。
 - 終日・複数日・跨日・海外offset・長い件名・件名なし。
 - 空の日と未取得を区別。通信失敗時、同じ月の表示済みサンプルを保持。
 - 設定から明暗、文字サイズ、週始まり、起動時表示、デモ取得状態を変更。
